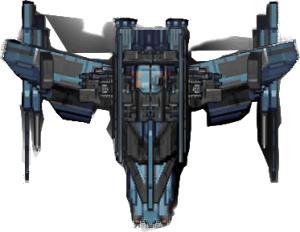
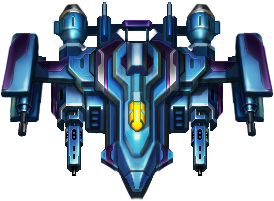
添加不同飞机。添加不同的补给

diff --git a/weapen.c b/weapen.c
@@ -5,19 +5,44 @@
 
 void init_weapen(Weapen *weapen)
 {
-    weapen->sx = 100;
-    weapen->sy = rand()%SCREEN_H/3+0;
+    weapen->sx = rand()%SCREEN_W + 0;
+    weapen->sy = rand()%SCREEN_H/3 + 0;
     weapen->time=0;
     weapen->live = false;
+    if((rand()%3+1)==2){
+    weapen->type = 1;
     weapen->bitmap = al_load_bitmap("../nonespace/img/weapen.png");
     weapen->bitmap_w = al_get_bitmap_width(weapen->bitmap);
     weapen->bitmap_h = al_get_bitmap_height(weapen->bitmap);
+    } else     if((rand()%2+1)!=1){
+        weapen->type = 2;
+        weapen->bitmap = al_load_bitmap("../nonespace/img/life.png");
+        weapen->bitmap_w = al_get_bitmap_width(weapen->bitmap);
+        weapen->bitmap_h = al_get_bitmap_height(weapen->bitmap);
+        }
 }
 
-void re_init_weapen(Weapen *weapen,int runtime)
+void re_init_weapen(Weapen *weapen,int weapen_class)
 {
-    if(runtime == FPS * WEAPEN_APPEAR  ) {
+    if(weapen_class == 1)
+    {
+    if(weapen->time == FPS * WEAPEN_APPEAR) {
         weapen->live = true;
+        weapen->sx = rand()%SCREEN_W + 0;
+        weapen->sy = rand()%SCREEN_H/3 + 0;
+
+        if((rand()%3+1)==2){
+        weapen->type = 1;
+        weapen->bitmap = al_load_bitmap("../nonespace/img/weapen.png");
+        weapen->bitmap_w = al_get_bitmap_width(weapen->bitmap);
+        weapen->bitmap_h = al_get_bitmap_height(weapen->bitmap);
+        } else  if((rand()%2+1)!=1){
+            weapen->type = 2;
+            weapen->bitmap = al_load_bitmap("../nonespace/img/life.png");
+            weapen->bitmap_w = al_get_bitmap_width(weapen->bitmap);
+            weapen->bitmap_h = al_get_bitmap_height(weapen->bitmap);
+            }
+    }
     }
 }
 

diff --git a/enemy.c b/enemy.c
@@ -32,7 +32,7 @@ void init_enemy(Enemy a[],int level,int type)
                 a[i].life = 0;
                 a[i].time = 0;
                 a[i].live = false;
-                a[i].bitmap = al_load_bitmap("../nonespace/img/enemy.png");
+                a[i].bitmap = al_load_bitmap("../nonespace/img/enemy0.png");
                 a[i].bitmap_w = al_get_bitmap_width(a[i].bitmap);
                 a[i].bitmap_h = al_get_bitmap_height(a[i].bitmap);
             }
@@ -49,9 +49,19 @@ void init_enemy(Enemy a[],int level,int type)
                 a[i].life = 0;
                 a[i].time = 0;
                 a[i].live = false;
-                a[i].bitmap = al_load_bitmap("../nonespace/img/enemy1.png");
+                if((rand()%2+1)==1){
+                a[i].bitmap = al_load_bitmap("../nonespace/img/enemy0.png");
                 a[i].bitmap_w = al_get_bitmap_width(a[i].bitmap);
                 a[i].bitmap_h = al_get_bitmap_height(a[i].bitmap);
+                } else if((rand()%2+1)==2){
+                    a[i].bitmap = al_load_bitmap("../nonespace/img/enemy1.png");
+                    a[i].bitmap_w = al_get_bitmap_width(a[i].bitmap);
+                    a[i].bitmap_h = al_get_bitmap_height(a[i].bitmap);
+                } else {
+                    a[i].bitmap = al_load_bitmap("../nonespace/img/enemy2.png");
+                    a[i].bitmap_w = al_get_bitmap_width(a[i].bitmap);
+                    a[i].bitmap_h = al_get_bitmap_height(a[i].bitmap);
+                }
             }
         }else if(level == 2){
             for(int i = 0; i < ENEMY_NUMBER; i++)

diff --git a/spaceship.c b/spaceship.c
@@ -123,8 +123,17 @@ void spaceship_hit_weapen(Spaceship *s, Weapen *weapen,int* weapen_class)
 {
     if(weapen->live) {
         if((pow((s->sx - weapen->sx),2) + pow((s->sy - weapen->sy),2))  < 200){
+            if(weapen->type == 1)
+            {
                 weapen->live = false;
+                weapen->time = 0;
                 *weapen_class = 2;
+            } else {
+                weapen->live = false;
+                weapen->time = 0;
+                s->life = 100;
+                s->time = 0;
+            }
         }
     }
 

diff --git a/collision.c b/collision.c
@@ -245,14 +245,14 @@ void boom1(Enemy *e)
 void boss_boom(Boss *e)
 {
     ALGIF_ANIMATION *boom = NULL;
-    boom = algif_load_animation("../nonespace/gif/boom1.gif");
+    boom = algif_load_animation("../nonespace/gif/boom.gif");
 
     ALLEGRO_TRANSFORM transform;
     al_identity_transform(&transform);
     al_translate_transform(&transform, e->sx, e->sy);
     al_use_transform(&transform);
 
-    al_draw_bitmap(algif_get_bitmap(boom,3),-75,-75,2);
+    al_draw_bitmap(algif_get_bitmap(boom,3),-30,-30,0);
 }
 
 void spaceship_boom(Spaceship *e)

diff --git a/run.c b/run.c
@@ -125,10 +125,11 @@ int run(int level)
 
                 s->time++;
                 b->time++;
+                weapen->time++;
                 time_plus(enemy,enemy2);
                 runtime++;
 
-                re_init_weapen(weapen,runtime);
+                re_init_weapen(weapen,weapen_class);
                 init_new_enemy(enemy,runtime,level,1);
                 init_new_enemy(enemy2,runtime,level,2);
                 fire_boss_blast(enemy_blast,b);

diff --git a/weapen.h b/weapen.h
@@ -3,20 +3,21 @@
 
 #include "main.h"
 
-#define WEAPEN_APPEAR 5
+#define WEAPEN_APPEAR 10
 
 typedef struct{
     float sx;
     float sy;
     bool live;
     int time;
+    int type;
     ALLEGRO_BITMAP *bitmap;
     int bitmap_h;
     int bitmap_w;
 } Weapen;
 
 void init_weapen(Weapen *weapen);
-void re_init_weapen(Weapen *weapen,int runtime);
+void re_init_weapen(Weapen *weapen, int weapen_class);
 void draw_weapen(Weapen *weapen);
 
 #endif // WEAPEN_H
